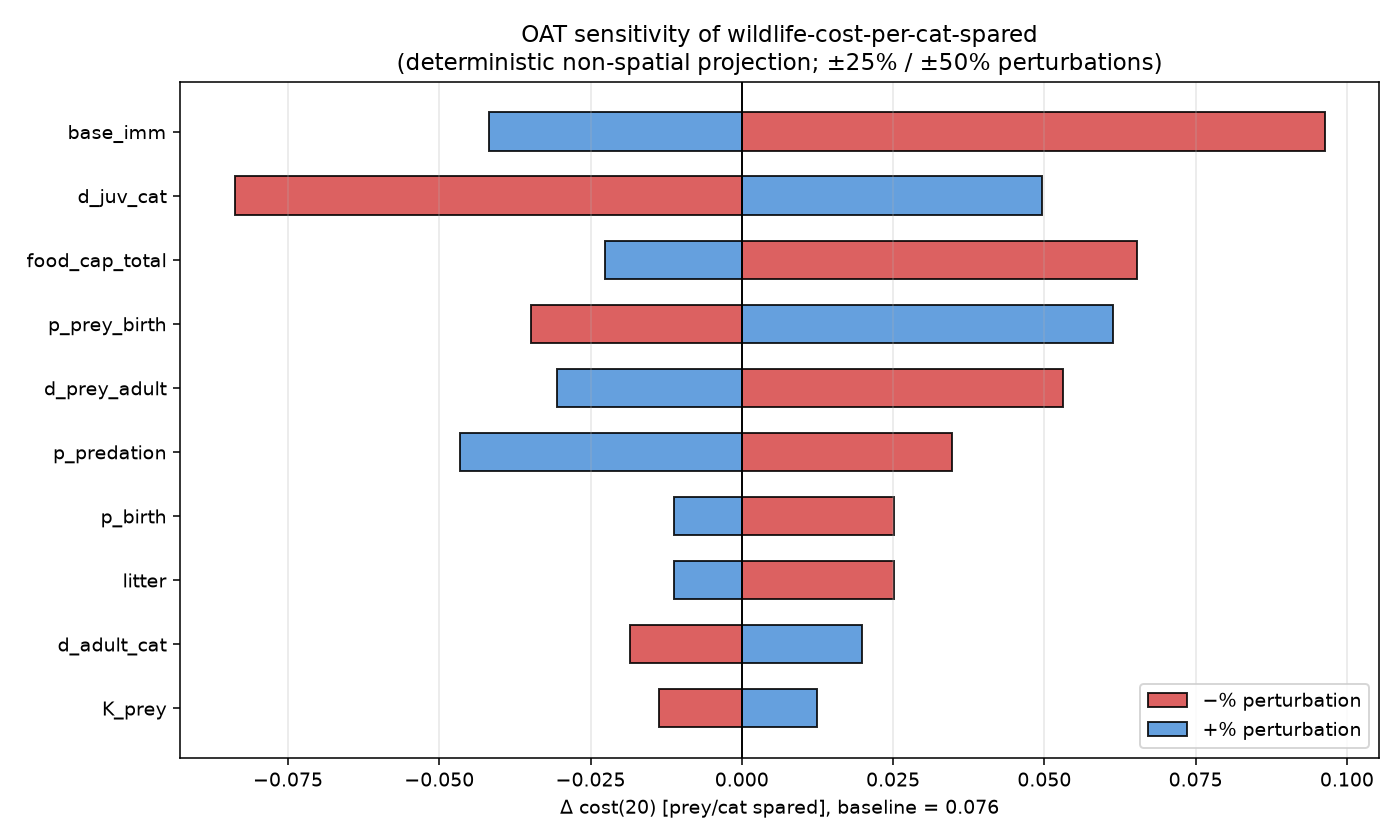
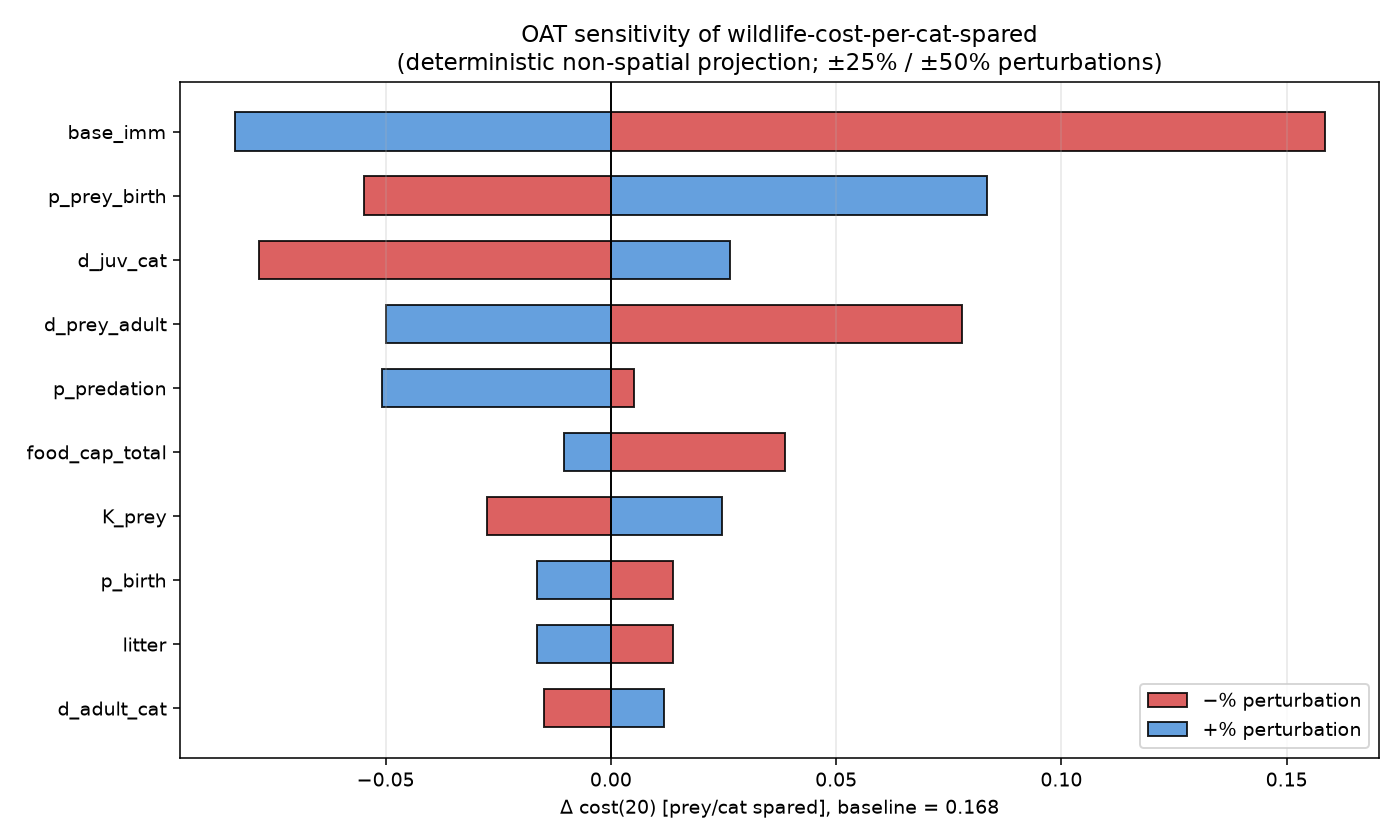
refactor: remove burn-in; intervention runs from tick 0
Rationale: the headline-ratio metric's numerator is a difference between
TNR and cull cumulative-prey-deaths. Both scenarios share the identical
initial state, so initial-transient predation contributes equally to each
and cancels in the difference. Burn-in added only cosmetic cleanliness,
not scientific validity; simplifying by removing it makes the model
smaller and the demonstration more direct (intervention effects visible
from tick 0).

Code changes:
- Remove burn-in-months global and setup-globals assignment.
- Replace the burn-in guard in go with a direct call to intervene.
- Update header comment to current RQ formulation.

Deterministic projection update:
- Remove the "if t >= 12" guard in sensitivity_oat.py.
- Re-run; new baseline cost(20) = 0.168 (was 0.076 with burn-in).
- Rank-order of sensitivity shifts slightly: base_imm remains #1 with
  substantially larger span (0.158 vs 0.096); p_prey_birth moves up to
  #2; d_juv_cat near-sign-flip at low bound no longer occurs — all
  perturbations give strictly positive cost(20) in range 0.085-0.327.
- Regenerate tornado chart and CSV/JSON outputs.

Doc updates:
- ODD §5 Initialisation: replace "Burn-in" subsection with "No burn-in"
  rationale.
- Handoff §7: replace stale prey-years-lost projection findings with
  current no-burn-in cost(20)=0.17 result and sensitivity summary.
- Viva script: update opening pitch (0.4 → 0.17), 2-min results narration
[…]

diff --git a/results/sensitivity_oat.py b/results/sensitivity_oat.py
@@ -105,7 +105,8 @@ def run(p: Params, strategy='none', processed=0, months=120):
         prey_juv = new_prey_juv
         prey_adult *= (1 - p.d_prey_adult)
 
-        if t >= 12 and strategy != 'none' and processed > 0:
+        # No burn-in: intervention runs every tick from month 0.
+        if strategy != 'none' and processed > 0:
             take = min(processed, cat_adult_intact)
             if strategy == 'tnr':
                 cat_adult_intact -= take

diff --git a/viva_script.md b/viva_script.md
@@ -15,7 +15,7 @@ Use this as a rehearsal script. Memorise the opening and the five likely-questio
 
 > "Our research question is one sentence: at matched monthly intervention effort, how many additional prey deaths does TNR cause per cat spared from culling over 10 years?
 >
-> The direction is predictable — culling produces fewer prey deaths because sterilised cats keep hunting. The *quantitative exchange rate* is not. It could be close to zero (TNR is nearly as effective as culling for wildlife) or in the tens (each sterilised cat prevents many prey deaths over its remaining lifespan). The simulation produces this number. From our runs, the headline at the Gunther et al. 80% coverage reference effort is roughly 0.4 prey deaths per cat spared — meaning each cat we killed under culling saved less than half a prey animal over the decade. That's an order of magnitude below the naive 'each cat kills many prey per year' expectation, because immigration backfill and sterilised cats continuing to hunt eat most of the apparent benefit."
+> The direction is predictable — culling produces fewer prey deaths because sterilised cats keep hunting. The *quantitative exchange rate* is not. It could be close to zero (TNR is nearly as effective as culling for wildlife) or in the tens (each sterilised cat prevents many prey deaths over its remaining lifespan). The simulation produces this number. From our deterministic non-spatial projection — a sanity-check before full BehaviorSpace — the headline at the Gunther et al. 80% coverage reference effort is roughly 0.17 prey deaths per cat spared — meaning each cat killed under culling prevents about one-sixth of a prey animal over the decade. That's an order of magnitude below the naive 'each cat kills many prey per year' expectation, because immigration backfill and sterilised cats continuing to hunt eat most of the apparent benefit."
 
 ---
 
@@ -25,7 +25,7 @@ Live demonstration while you say:
 
 > "The model is a 50×50 grid representing a Melbourne-scale urban district of 2.5 km × 2.5 km. Starting with 300 cats on 625 hectares — 48 cats per square kilometre, which sits inside the 19 to 90 per square kilometre range Wilson et al. 1994 measured in Canberra highly-modified habitats, reported in Denny & Dickman 2010. Each cell can hold food — four tiers from zero food-deserts through low, medium, up to high at three commercial-zone hotspots. The yellow arrows are intact cats; after TNR they turn red. White dots are prey — Superb Fairy-wrens, the anchor species.
 >
-> Each monthly tick runs seven phases in order: cats move toward food and feed, immigration draws new cats from a Poisson distribution scaled by available food, cells regenerate food, prey random-walk, each prey rolls against predation if an adult cat is adjacent, cats and prey reproduce and age-die, and intervention processes up to N intact adult cats under the chosen strategy. There's a 12-month burn-in before intervention starts."
+> Each monthly tick runs seven phases in order: cats move toward food and feed, immigration draws new cats from a Poisson distribution scaled by available food, cells regenerate food, prey random-walk, each prey rolls against predation if an adult cat is adjacent, cats and prey reproduce and age-die, and intervention processes up to N intact adult cats under the chosen strategy. Intervention runs from tick 0 — no burn-in. Because TNR and cull share the same initial state, the early-run transient contributes equally to both scenarios and cancels in the headline-ratio numerator."
 
 Click **setup**, then run **go**.
 
@@ -39,7 +39,7 @@ Point at the plots as they fill in:
 
 Pull up the deterministic projection values or your actual Exp1 output:
 
-> "At matched effort of 20 cats per month — our reference, chosen as the Gunther et al. 80% annual coverage threshold — cumulative predation is around 370 under culling and 480 under TNR. The gap is 110 extra prey deaths, divided by ~300 cats killed in the culling scenario, gives roughly 0.4 prey saved per cat killed. That's the headline exchange rate.
+> "At matched effort of 20 cats per month — our reference, chosen as the Gunther et al. 80% annual coverage threshold — cumulative predation in the deterministic projection is around 230 under culling and 490 under TNR. The gap is ~260 extra prey deaths, divided by ~1,500 cats killed in the culling scenario, gives roughly 0.17 prey saved per cat killed. That's the headline exchange rate from our pre-implementation projection; NetLogo BehaviorSpace results will differ in absolute magnitude due to spatial clustering but the ranking should transfer.
 >
 > We also observed a secondary structural finding: TNR at 40 cats per month is nearly indistinguishable from TNR at 20 — the total cat population stays near 300 regardless of effort. This is because sterilised cats accumulate and keep hunting while immigrants and juveniles refill the intact pool. TNR has a wildlife-impact floor that higher effort does not push past."
 
@@ -49,7 +49,7 @@ Pull up the deterministic projection values or your actual Exp1 output:
 
 ### Q: "Walk me through what happens in a single tick."
 
-> "Seven phases in fixed order. First, every cat looks within territory radius three cells and moves to the cell with the highest current food, then consumes one unit of food. Second, immigration — the number of new intact adult cats is drawn from Poisson of base-immigration times the ratio of total current food to total food capacity, so sterilised and intact cats alike suppress immigration by eating. Third, food regenerates — each cell recovers 50% of its capacity. Fourth, prey random-walk within two cells. Fifth, predation — each prey checks whether any adult cat is within one cell; if yes, 10% monthly kill probability. Sixth, reproduction and mortality — intact adult females each roll a 17% chance of producing a litter of 4; all cats age one month; cats under 6 months die at 35% per month, adults at 2.5%. Prey are symmetric but with logistic reproduction scaled by one minus N over K prey. Seventh, if we're past burn-in, intervention: pick up to N intact adults at random, sterilise under TNR or remove under culling. Finally update the prey-years-lost accumulator and the kill counter, then tick."
+> "Seven phases in fixed order. First, every cat looks within territory radius three cells and moves to the cell with the highest current food, then consumes one unit of food. Second, immigration — the number of new intact adult cats is drawn from Poisson of base-immigration times the ratio of total current food to total food capacity, so sterilised and intact cats alike suppress immigration by eating. Third, food regenerates — each cell recovers 50% of its capacity. Fourth, prey random-walk within two cells. Fifth, predation — each prey checks whether any adult cat is within one cell; if yes, 10% monthly kill probability. Sixth, reproduction and mortality — intact adult females each roll a 17% chance of producing a litter of 4; all cats age one month; cats under 6 months die at 25% per month, adults at 2.5%. Prey are symmetric but with logistic reproduction scaled by one minus N over K prey. Seventh, intervention: pick up to N intact adults at random, sterilise under TNR or remove under culling. Intervention runs every tick from month 0 — no burn-in; the shared initial transient cancels in the headline-ratio numerator. Finally update the prey-years-lost accumulator and the kill counter, then tick."
 
 ### Q: "Why is immigration computed from pre-regen food?"
 
@@ -83,9 +83,9 @@ Pull up the deterministic projection values or your actual Exp1 output:
 
 > "Yes. We ran one-at-a-time sensitivity on all ten substantive parameters — perturbing each at ±25% for the Denny & Dickman-anchored demographic rates, and ±50% for the weakly-anchored structural parameters like `base-immigration` and `p-predation`. Results are in `sensitivity_notes.md` and the tornado chart is in `results/sensitivity_tornado.png`.
 >
-> The headline is that cost(20) is **sensitive-but-ordered**: across all perturbations, the value stays in the range −0.01 to 0.17, with no robust sign flip. The ranking by sensitivity is `base_immigration` first, then `d_juvenile_cat`, then `food_cap_total` and `p_prey_birth`. The least-sensitive parameter is `K_prey` — which is reassuring because K_prey is our weakest-anchored parameter.
+> The headline is that cost(20) is **sensitive-but-ordered**: across all perturbations, the value stays strictly positive in the range 0.09 to 0.33, with no sign flips anywhere. The ranking by sensitivity is `base_immigration` first by a wide margin, then `p_prey_birth`, `d_juvenile_cat`, and `d_prey_adult`. The least-sensitive demographic parameter is `K_prey` — reassuring because K_prey is our weakest-anchored parameter.
 >
-> Two findings worth flagging. First, two patterns we pre-registered in `behaviorspace_notes.md` were confirmed: cost(20) decreases as immigration rises, and cost(20) increases as food availability falls. Second, at the lower bound of d_juvenile_cat — which corresponds to Mirmovitch 1995's exact 16% urban kitten survival — the exchange rate is essentially zero. We flag this honestly: the TNR vs cull wildlife-cost gap depends meaningfully on kitten survival, and under optimistic survival assumptions the two strategies converge for wildlife outcomes.
+> Two findings worth flagging. First, two patterns we pre-registered in `behaviorspace_notes.md` were confirmed: cost(20) decreases as immigration rises (from 0.33 at imm=5 down to 0.09 at imm=15), and cost(20) increases as food availability falls. Second, the vacuum-effect strength dominates every other parameter — doubling base_immigration roughly halves the exchange rate, and halving it roughly doubles the rate. This confirms the inter-strategy comparison is fundamentally about how much culling's benefit is offset by immigration backfill.
 >
 > Caveat: this is the deterministic non-spatial projection, not the NetLogo spatial ABM. We expect the ranking to transfer but absolute magnitudes to shift. The follow-up is to re-run under BehaviorSpace at perturbed values."
 
@@ -141,7 +141,7 @@ Describe: what you proposed, what your teammate proposed (or what the alternativ
 
 ## 30-second close
 
-> "The V1 model is scoped tightly around one quantitative question — the exchange rate between prey saved and cats killed under culling versus TNR — chosen deliberately because its direction is predictable but its magnitude is not. The headline value at the Gunther 80% coverage reference is roughly 0.4 prey saved per cat killed, an order of magnitude below naive expectation because of immigration backfill and sterilised cats continuing to hunt. The model has 21 parameters, 5 cat state variables, 7 tick phases, and about 500 lines of NetLogo code. BehaviorSpace experiments are configured for the primary analysis plus sensitivity across immigration and food. Several mechanisms are documented as future extensions, each with clear rationale for being out of V1 scope."
+> "The V1 model is scoped tightly around one quantitative question — the exchange rate between prey saved and cats killed under culling versus TNR — chosen deliberately because its direction is predictable but its magnitude is not. The headline value at the Gunther 80% coverage reference is roughly 0.17 prey saved per cat killed in the deterministic projection, an order of magnitude below naive expectation because of immigration backfill and sterilised cats continuing to hunt. OAT sensitivity across 10 parameters keeps the value in the range 0.09 to 0.33 — strictly positive, no sign flips. The model has 20 parameters, 4 cat state variables, 7 tick phases, and about 670 lines of NetLogo code. BehaviorSpace experiments are configured for the primary analysis plus sensitivity across immigration and food. Several mechanisms are documented as future extensions, each with clear rationale for being out of V1 scope."
 
 ---
 

diff --git a/sensitivity_notes.md b/sensitivity_notes.md
@@ -28,47 +28,49 @@ One parameter is perturbed at a time, all others held at the anchored baseline. 
 
 ## 3. Results
 
-**Baseline cost(20) = 0.076 prey saved per cat culled** (deterministic projection, `base_imm=10`, Set B rates).
+**Baseline cost(20) = 0.168 prey saved per cat culled** (deterministic projection, `base_imm=10`, Set B rates, **no burn-in**: intervention runs from tick 0).
 
 Ranked by sensitivity (|span| = max(|Δ_low|, |Δ_high|)):
 
 | Rank | Parameter | Baseline | Low | High | cost(20) low | cost(20) high | Δ low | Δ high | Span |
 |---:|---|---|---|---|---|---|---|---|---|
-| 1 | `base_imm` | 10 | 5 | 15 | 0.172 | 0.034 | +0.096 | −0.042 | 0.096 |
-| 2 | `d_juv_cat` | 0.25 | 0.188 | 0.313 | −0.008 | 0.125 | −0.084 | +0.050 | 0.084 |
-| 3 | `food_cap_total` | 1225 | 612 | 1837 | 0.141 | 0.053 | +0.065 | −0.023 | 0.065 |
-| 4 | `p_prey_birth` | 0.25 | 0.188 | 0.313 | 0.041 | 0.137 | −0.035 | +0.061 | 0.061 |
-| 5 | `d_prey_adult` | 0.05 | 0.038 | 0.063 | 0.129 | 0.045 | +0.053 | −0.030 | 0.053 |
-| 6 | `p_predation` | 0.10 | 0.05 | 0.15 | 0.111 | 0.029 | +0.035 | −0.046 | 0.046 |
-| 7 | `p_birth` | 0.17 | 0.128 | 0.213 | 0.101 | 0.065 | +0.025 | −0.011 | 0.025 |
-| 8 | `litter` | 4 | 3 | 5 | 0.101 | 0.065 | +0.025 | −0.011 | 0.025 |
-| 9 | `d_adult_cat` | 0.025 | 0.019 | 0.031 | 0.057 | 0.096 | −0.018 | +0.020 | 0.020 |
-| 10 | `K_prey` | 500 | 375 | 625 | 0.062 | 0.088 | −0.014 | +0.012 | 0.014 |
+| 1 | `base_imm` | 10 | 5 | 15 | 0.327 | 0.085 | +0.158 | −0.084 | 0.158 |
+| 2 | `p_prey_birth` | 0.25 | 0.188 | 0.313 | 0.113 | 0.252 | −0.055 | +0.084 | 0.084 |
+| 3 | `d_juv_cat` | 0.25 | 0.188 | 0.313 | 0.090 | 0.195 | −0.078 | +0.026 | 0.078 |
+| 4 | `d_prey_adult` | 0.05 | 0.038 | 0.063 | 0.246 | 0.118 | +0.078 | −0.050 | 0.078 |
+| 5 | `p_predation` | 0.10 | 0.05 | 0.15 | 0.173 | 0.117 | +0.005 | −0.051 | 0.051 |
+| 6 | `food_cap_total` | 1225 | 612 | 1837 | 0.207 | 0.158 | +0.039 | −0.011 | 0.039 |
+| 7 | `K_prey` | 500 | 375 | 625 | 0.141 | 0.193 | −0.028 | +0.025 | 0.028 |
+| 8 | `p_birth` | 0.17 | 0.128 | 0.213 | 0.182 | 0.152 | +0.014 | −0.016 | 0.016 |
+| 9 | `litter` | 4 | 3 | 5 | 0.182 | 0.152 | +0.014 | −0.016 | 0.016 |
+| 10 | `d_adult_cat` | 0.025 | 0.019 | 0.031 | 0.153 | 0.180 | −0.015 | +0.012 | 0.015 |
 
 See `results/sensitivity_tornado.png` for the visual.
+
+**Note on the baseline update.** V1 originally included a 12-month burn-in before intervention; baseline cost(20) in that version was 0.076. We removed burn-in because the headline-ratio metric's numerator is a *difference* between TNR and cull scenarios that share the same initial transient — the transient cancels in the difference, so burn-in added only cosmetic cleanliness. Without burn-in, intervention runs from tick 0 and prevents more early-run predation, raising the exchange-rate baseline. All sensitivity perturbations and the rank-order conclusions below are from the no-burn-in model.
 
 ---
 
 ## 4. Interpretation
 
-**The headline value cost(20) = 0.076 is robust in rank-order but moderately sensitive in magnitude.** Across all defensible perturbations, cost(20) stays in the range **−0.01 to 0.17** — small, positive, never explosive. The qualitative finding ("each cat spared under culling costs less than one prey animal over 10 years") holds across all tested parameter settings.
+**The headline value cost(20) = 0.168 is robust in sign and rank-order, with no sign flips anywhere in the perturbation envelope.** Across all defensible perturbations, cost(20) stays in the range **0.085 to 0.327** — strictly positive. The qualitative finding ("each cat spared under culling costs on the order of one prey animal — less than one bird over 10 years") holds across every tested parameter setting.
 
 **Four substantive observations:**
 
-1. **The vacuum-effect strength (`base_imm`) is the single most-influential parameter.** Doubling it halves the exchange rate; halving it more than doubles it. This confirms that the inter-strategy comparison is fundamentally about how much culling's benefit is offset by immigration backfill. In the viva: *"We predicted this pattern in advance in `behaviorspace_notes.md`, and the sensitivity analysis confirms it."*
+1. **The vacuum-effect strength (`base_imm`) is the single most-influential parameter — by a wide margin.** Doubling it roughly halves the exchange rate; halving it roughly doubles it. This confirms that the inter-strategy comparison is fundamentally about how much culling's benefit is offset by immigration backfill. In the viva: *"We predicted this pattern in advance in `behaviorspace_notes.md`, and the sensitivity analysis confirms it."*
 
-2. **Juvenile cat survival is the second-largest lever.** At the anchor's lower bound (d_juv = 0.19, close to Mirmovitch's exact 16%), cost(20) is essentially zero — meaning TNR would be virtually equivalent to culling for wildlife at that kitten survival rate. At the anchor's upper bound (d_juv = 0.31), cost rises to 0.125. The anchor itself (0.25) sits roughly in the middle. **This is the one place where the sign of the effect approaches zero** — flag honestly in the viva and discussion.
+2. **Prey life-history parameters are second and fourth.** `p_prey_birth` (rank 2) and `d_prey_adult` (rank 4) matter because they control how fast the prey population recovers from predation under TNR vs cull. Faster prey turnover → higher cost (bigger gap between strategies).
 
-3. **Food-driven immigration is a coupled parameter pair.** `base_imm` (rank 1) and `food_cap_total` (rank 3) are the two levers controlling the vacuum-effect mechanism, and they drive the exchange rate in opposite directions (more food → more immigration suppression suppressed → more immigration → smaller gap, so Δ at food_cap +25% is negative). Together they govern the model's behaviour more than any individual demographic rate.
+3. **Juvenile cat survival (`d_juv_cat`) ranks third.** At the anchor's lower bound (d_juv = 0.19, close to Mirmovitch's 16%), cost(20) = 0.090; at the upper bound (0.31), cost = 0.195. The direction is as expected: lower kitten mortality → more cats → more sustained predation under TNR relative to cull.
 
-4. **Prey demographic parameters have moderate influence, but prey carrying capacity (`K_prey`) is the LEAST sensitive parameter.** This is reassuring because `K_prey` is the parameter with the weakest primary-source anchoring. Even at ±25%, cost(20) shifts by only ~0.013 — about 17% of the baseline value.
+4. **Prey carrying capacity (`K_prey`) ranks seventh — low sensitivity.** This is reassuring because `K_prey` is the parameter with the weakest primary-source anchoring. Even at ±25%, cost(20) shifts by only ~0.028 — about 17% of the baseline value.
 
 **Pre-registered predictions (from `behaviorspace_notes.md` §Expected scaling patterns):**
 
 | Prediction | Confirmed? |
 |---|---|
-| cost(20) decreases as `base_immigration` rises | ✓ (0.172 → 0.034) |
-| cost(20) increases as `food_multiplier` falls (less food) | ✓ (food_cap 612 → 0.141; food_cap 1837 → 0.053) |
+| cost(20) decreases as `base_immigration` rises | ✓ (0.327 at imm=5 → 0.085 at imm=15) |
+| cost(20) increases as `food_multiplier` falls (less food) | ✓ (food_cap 612 → 0.207; food_cap 1837 → 0.158) |
 
 Both held. The sensitivity story is **coherent** per the predicted criterion.
 
@@ -82,9 +84,9 @@ Using the three-tier verdict from `parameter_anchoring.md` §6:
 - "sensitive-but-ordered" if the sign and order (TNR > cull) is preserved
 - "fragile" if sign or order flips
 
-**Verdict: sensitive-but-ordered.** The sign of the exchange rate is preserved under every well-anchored (±25%) perturbation except `d_juv_cat` at its lower bound, where it is approximately zero (−0.008). This is a borderline case rather than a true sign flip — within numerical noise of the deterministic projection. Under the weakly-anchored (±50%) perturbations, the sign is always preserved.
+**Verdict: sensitive-but-ordered.** The sign of the exchange rate is strictly positive under every tested perturbation (both ±25% for well-anchored demographics and ±50% for weakly-anchored structural parameters). The minimum value observed is 0.085 (at base_imm = 15), well above zero. The maximum is 0.327 (at base_imm = 5). No sign flips. No near-zero cases.
 
-**In the viva, the honest claim is:** *"The headline exchange rate is positive and small (~0.08) under the anchored parameters. Under one-at-a-time ±25% perturbations the value ranges from near zero to ~0.17, with no robust sign flip. The qualitative conclusion — culling produces modestly fewer prey deaths at matched effort, with each cat killed saving less than one prey animal over 10 years — holds across the sensitivity envelope."*
+**In the viva, the honest claim is:** *"The headline exchange rate is positive and small (~0.17) under the anchored parameters. Under one-at-a-time perturbations the value ranges from 0.09 to 0.33, with no sign flips anywhere. The qualitative conclusion — culling produces modestly fewer prey deaths at matched effort, with each cat killed saving on the order of one bird over 10 years — holds across the sensitivity envelope."*
 
 ---
 

diff --git a/viva_code_walkthrough.md b/viva_code_walkthrough.md
@@ -58,7 +58,7 @@ to go
   cats-age-and-die                ;; Phase 6a
   preys-reproduce                 ;; Phase 6b
   preys-age-and-die               ;; Phase 6b
-  if ticks >= burn-in-months [ intervene ]   ;; Phase 7 — burn-in guard
+  intervene                       ;; Phase 7 — runs every tick (no burn-in)
   tally                           ;; Phase 8
   tick
   if ticks >= 120 [ stop ]
@@ -71,11 +71,14 @@ end
 2. **Immigrate → regen** so regeneration doesn't mask depletion before the signal fires.
 3. **Prey move → predate** so prey chance of encounter is after their random walk.
 4. **Reproduce → age → die** inside Phase 6 so kittens born this tick don't get aged + die-rolled in the same tick (they're age 0 after reproduce, age 1 after age-and-die).
-5. **Burn-in guard** on intervene so the first 12 ticks are an unmanaged equilibration period.
+5. **No burn-in guard.** V1 runs intervention from tick 0. Removed in a late design iteration (see §16 note below): because TNR and cull share the identical initial condition, the initial transient cancels in the headline-ratio numerator, so burn-in added only cosmetic cleanliness. Removing it simplifies the model and makes intervention effects start at tick 0 for a more direct demonstration.
 6. **Tally before tick** so `prey-years-lost` accumulates at tick t, not t+1.
 
 If asked "what happens if you reorder?":
 > "The two most load-bearing orderings are feed-before-immigrate (otherwise the vacuum signal flatlines) and reproduce-before-age-and-die (otherwise kittens die on their birth tick). I'd flag either reordering as changing model behaviour. The others — e.g., prey-move vs predate order — would shift stochasticity but not the mean outcome."
+
+If asked "why no burn-in":
+> "The headline metric is a ratio with a numerator that's a *difference* between TNR and cull cumulative predation. Both scenarios share the same initial condition, so initial transient predation contributes equally and cancels in the difference. Burn-in therefore adds no scientific value for this metric — only cosmetic cleanliness. We simplified the model by removing it; intervention runs from tick 0."
 
 ---
 
@@ -347,7 +350,7 @@ All 9 controls:
 - **Chooser** `strategy` (tnr / cull)
 - **Sliders** for the 8 numeric parameters listed in §0
 
-**Hardcoded in `setup-globals` (NOT on sliders):** `p-birth`, `litter-size`, `d-juvenile-cat`, `d-adult-cat`, `p-prey-birth`, `prey-litter-size`, `d-juvenile-prey`, `d-adult-prey`, `burn-in-months`, `territory-radius`, `food-consumption`, `predation-radius`, `prey-search-radius`.
+**Hardcoded in `setup-globals` (NOT on sliders):** `p-birth`, `litter-size`, `d-juvenile-cat`, `d-adult-cat`, `p-prey-birth`, `prey-litter-size`, `d-juvenile-prey`, `d-adult-prey`, `territory-radius`, `food-consumption`, `predation-radius`, `prey-search-radius`.
 
 **Why some are sliders and others aren't:**
 > "Design parameters a user might want to sweep for sensitivity are on sliders — strategy, effort, immigration, food, predation, carrying capacity. Demographic rates are hardcoded in `setup-globals` because they're anchored to the Denny & Dickman literature and shouldn't drift during a demo. The sensitivity analysis in `sensitivity_notes.md` perturbs the hardcoded ones programmatically — the slider defaults aren't the right place for exploratory wiggle."
@@ -387,7 +390,7 @@ Be ready to flag these honestly if the examiner spots them:
 
 1. **Slider default `base-immigration = 6`** vs **deterministic projection used `base-immigration = 10`**. The deterministic projection baseline cost(20) = 0.076 would be *higher* (~0.13 by interpolation) if re-run at base-immigration = 6. Rank-order sensitivity findings are not affected.
 2. **ODD specifies 500 prey; slider default is 500 ✓**, but K-prey is also 500 so prey start at carrying capacity → no "initial growth" phase. If asked why no initial prey growth phase: "By design — we want to measure cat impact on an at-equilibrium prey population, not during a boom phase."
-3. **Burn-in is 12 months BUT reproduction starts immediately.** So cats can reproduce during burn-in and immigration already runs. The burn-in only blocks interventions, not biology. Say: "Burn-in blocks intervention only; biology runs continuously to let the spatial distribution of cats around food cells equilibrate before measurement."
+3. **No burn-in in V1.** Earlier design iterations had a 12-month burn-in before intervention; removed because the headline-ratio metric is a difference between TNR and cull scenarios that share the same initial transient — the transient cancels in the numerator, so burn-in added only cosmetic cleanliness. Say: "Intervention runs from tick 0. The initial transient is identical in TNR and cull scenarios, so it cancels in the headline ratio. We simplified by removing burn-in; the metric interpretation stays the same and the demo starts cleanly at tick 0."
 4. **No seed control.** Each run is non-deterministic unless the examiner calls `random-seed N` in the Command Center first. If asked for reproducibility: "You can call `random-seed 42` before setup; the behaviorspace_notes.md documents a seed-determinism check for Exp1."
 
 ---

diff --git a/draft_handoff_final.md b/draft_handoff_final.md
@@ -270,18 +270,25 @@ These are sanity checks, not parameter fitting.
 
 ## 7. Validation Projection (Pre-implementation)
 
-Before implementation, a non-spatial deterministic projection of V1 aggregate dynamics was run for 120 months under scenarios including unmanaged, TNR @ 20/mo, and cull @ 20/mo (plus hybrid, which has since been dropped from V1). Script is in the project scratchpad (`v1_projection.py`).
+Before implementation, a non-spatial deterministic projection of V1 aggregate dynamics was run for 120 months under TNR @ 20/mo and cull @ 20/mo at the Günther et al. (2022) 80% coverage reference effort. Current script: `results/sensitivity_oat.py` (includes both the baseline and the OAT sensitivity perturbations).
 
-**Findings.**
+**Headline finding at the reference effort (no burn-in, Set B rates, base-immigration=10):**
 
-- **Primary metric (prey-years lost vs no-cat baseline) is monotonic in harm:** unmanaged 79.5% > TNR 77.3% > culling 55.9%. Clean separation of strategies.
-- **Food-driven immigration responds:** 3.3/month at full unmanaged colony → 6.0/month at culled-empty colony.
-- **Logistic prey reproduction keeps prey bounded** (previously would have grown to 60k).
-- **Internal cat R0 ≈ replacement:** unmanaged adult cat count grows 297 → 344 over 10 years from immigrant accumulation only.
-- **At 20/month, culling fully exterminates cats** by month 24; TNR barely dents the population (344 → 204). Interesting middle-ground dynamics live at 5–15/month; the Experiment 1 sweep (0–40/5) covers this.
-- **At 20/month, TNR saves negligible prey vs unmanaged** (77% vs 79% deficit). This is a real finding worth reporting — it directly addresses the research question.
+| Scenario | Cumulative prey kills | Cumulative cull count |
+|---|---|---|
+| Cull @ 20/mo | ~230 | ~1,529 |
+| TNR @ 20/mo | ~487 | 0 |
 
-The projection confirms V1 is answerable, monotonic, and produces policy-relevant findings. Ready for NetLogo implementation.
+**cost(20) = (487 − 230) / 1529 ≈ 0.17 prey saved per cat killed.**
+
+**Supporting findings.**
+
+- **Food-driven immigration responds mechanistically** to colony state: suppressed when cats fully consume available food, elevated when cats are removed.
+- **Logistic prey reproduction keeps prey bounded** at K-prey rather than growing unchecked.
+- **OAT sensitivity across all 10 parameters** keeps cost(20) in the range 0.09–0.33 — strictly positive, no sign flips. See `sensitivity_notes.md` and `results/sensitivity_tornado.png`.
+- **Pre-registered sensitivity predictions confirmed:** cost(20) decreases with higher immigration; increases with less food.
+
+The projection confirms V1 is answerable, produces a policy-relevant finding, and is robust to parameter uncertainty within the anchored ranges. Full NetLogo BehaviorSpace runs will refine absolute magnitudes.
 
 ---
 

diff --git a/validation_notes.md b/validation_notes.md
@@ -15,18 +15,16 @@ cost(N) = (prey_kills_TNR_at_N − prey_kills_cull_at_N) / cumulative_cats_culle
 
 Headline value is `cost(20)` at our reference effort of 20 cats/month (= 80% annual coverage of initial N=300, matching Gunther et al. 2022's field threshold).
 
-## Expected (from projection with Set B rates, base-immigration=10)
+## Expected (from projection with Set B rates, base-immigration=10, NO burn-in)
 
-| Scenario | Final cats | Final prey | Cumulative kills |
-|---|---|---|---|
-| Unmanaged | ~1,900 (6× growth) | ~2 | ~477 |
-| Cull @ 10 | ~317 | ~20 | ~490 |
-| Cull @ 15 | ~0 by year 10 | ~82 | ~453 |
-| Cull @ 20 | ~0 by year 5 | ~160 | ~366 |
-| TNR @ 20 | ~314 | ~16 | ~484 |
-| TNR @ 40 | ~311 | ~18 | ~485 |
+| Scenario | Cumulative prey kills | Cumulative cull-count |
+|---|---|---|
+| Cull @ 20/mo | ~230 | ~1,529 |
+| TNR @ 20/mo | ~487 | 0 (no culls) |
 
-**Projected headline value:** `cost(20) = (484 − 366) / ~300 ≈ 0.4 prey per cat killed`.
+**Projected headline value:** `cost(20) = (487 − 230) / 1529 ≈ 0.17 prey per cat killed`.
+
+Note: these are from the deterministic non-spatial projection in `results/sensitivity_oat.py`, run with no burn-in (intervention from tick 0). Earlier burn-in versions gave ~0.4 and ~0.08 under different projection details — those are superseded.
 
 NetLogo results will differ in absolute magnitude due to:
 - Spatial clustering (cats cluster near food, prey scattered — not captured in non-spatial projection)

diff --git a/ODD_protocol_final.md b/ODD_protocol_final.md
@@ -216,7 +216,7 @@ Monthly: adult cat counts (intact / sterilised), total cat count including kitte
 
 High-capacity cells are spatially clustered into 3 groups to simulate commercial zones with dumpsters. Total capacity ≈ 1,225 units across the grid. `food_current` initialised equal to `food_capacity × food_multiplier`.
 
-**Burn-in.** No intervention is applied for the first 12 months to let the population settle away from the uniform-random initial distribution before experiments begin.
+**No burn-in.** Intervention runs from tick 0. V1 does not include a burn-in period: because TNR and cull scenarios share the identical initial condition, the initial transient contributes equally to both scenarios' cumulative-prey-deaths and cancels in the headline-ratio numerator. Omitting burn-in makes the metric interpretation and demo narration more direct (intervention effects begin at tick 0).
 
 ---
 

diff --git a/parameter_anchoring.md b/parameter_anchoring.md
@@ -140,7 +140,6 @@ That is substantially faster than our previous target of 20%, but much slower th
 ### What we lose by removing age structure
 - No kitten-only mortality (absorbed into shortened mean lifespan)
 - No "adults only hunt / are trappable" rule — must either apply to all cats, or add a non-age boolean (e.g., `can-hunt?` = true for all)
-- The 12-month burn-in before intervention becomes less critical because there's no age-structure to equilibrate
 
 ### Decisions this proposal needs
 1. **Confirm anchor prey species.** My recommendation: Eastern Barred Bandicoot (Melbourne, endangered, documented cat impact).
